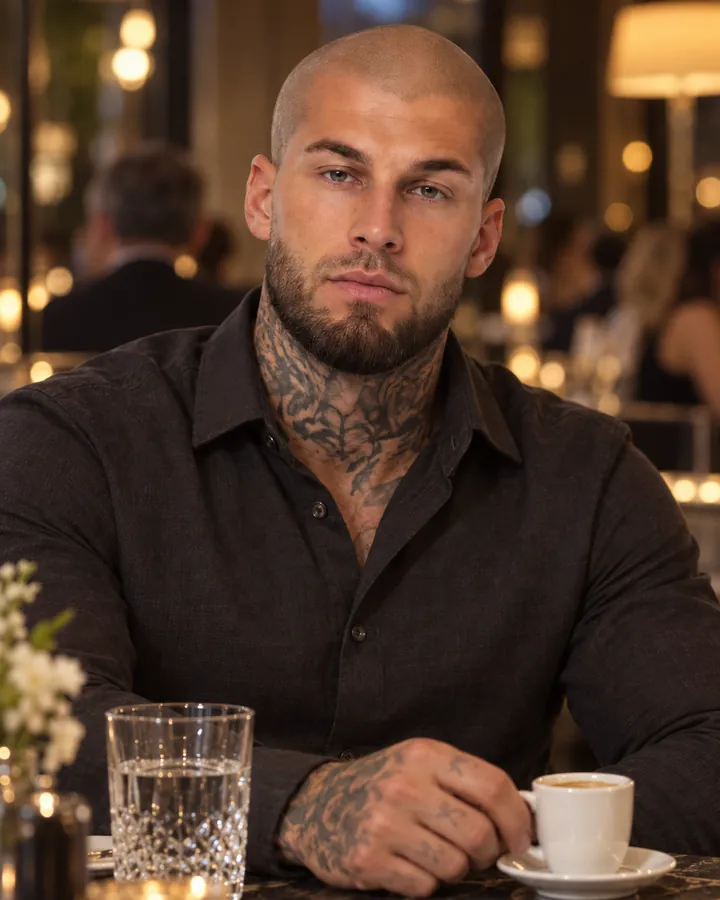
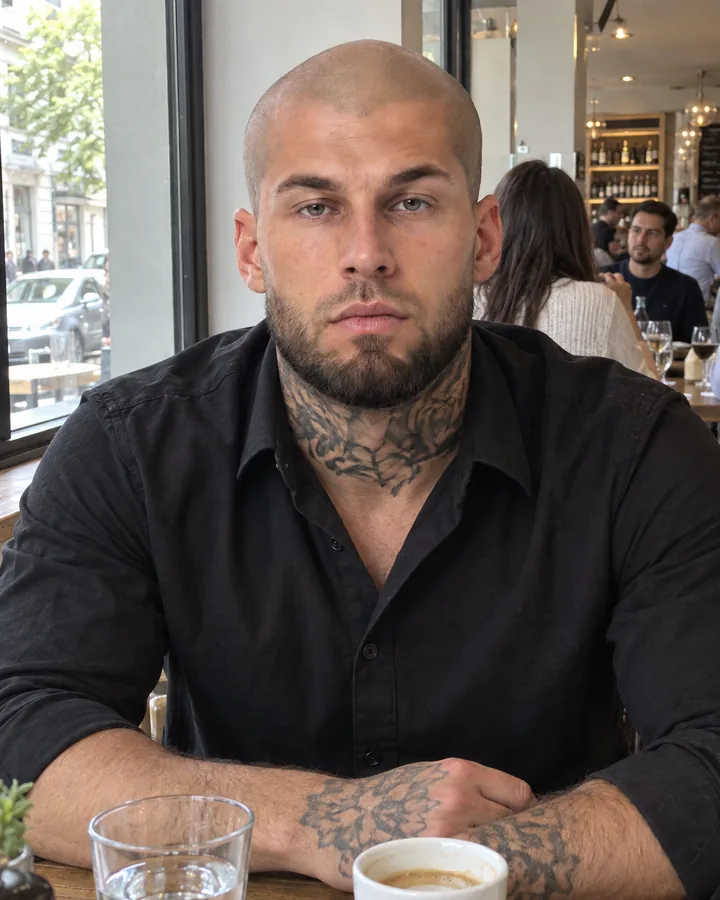
Whop test page: realistic iPhone-style team photo for Max

diff --git a/whop.html b/whop.html
@@ -2706,7 +2706,7 @@
   <!-- TEAM CARDS: one <article class="tm-card"> per teammate; photo 720x900 (4:5) in assets/img/team/ -->
   <div class="tm-grid">
     <article class="tm-card reveal">
-      <div class="tm-photo"><img src="assets/img/team/max.webp" alt="Max, MomentoCrypto team" width="720" height="900" loading="lazy"></div>
+      <div class="tm-photo"><img src="assets/img/team/max.webp?v=2" alt="Max, MomentoCrypto team" width="720" height="900" loading="lazy"></div>
       <div class="tm-card-body">
         <div class="tm-name">Max</div>
         <div class="tm-role">MomentoCrypto team</div>
